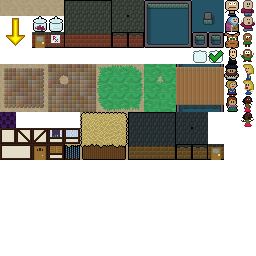
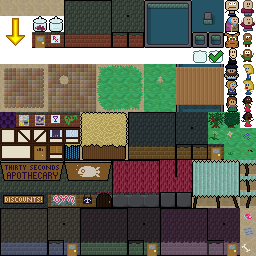
graphic decorations

diff --git a/README.md b/README.md
@@ -66,8 +66,9 @@ For [HEAVENJAM #1](https://itch.io/jam/heavenjam-1), 2025-01-27 .. 2025-02-03.
 - - - [x] Pickup.
 - - - [x] Dropoff.
 - - [x] 7 distinct customers
-- - [ ] Decorative touches.
+- - [x] Decorative touches.
 - - - [x] Little people that go "hey" and jump out of your way.
+- - - [x] Add graphics until we run out of tilesheet.
 - - [x] physics: I glossed over corner collisions. Does it matter? ...been playing it for two days, and no, i don't notice anything wrong.
 - - [ ] Egg's subtractive voices are markedly different native vs web. I like what we have for native. Look into repairing egg.
 - - [ ] Plan for game to be complete by EOD.
